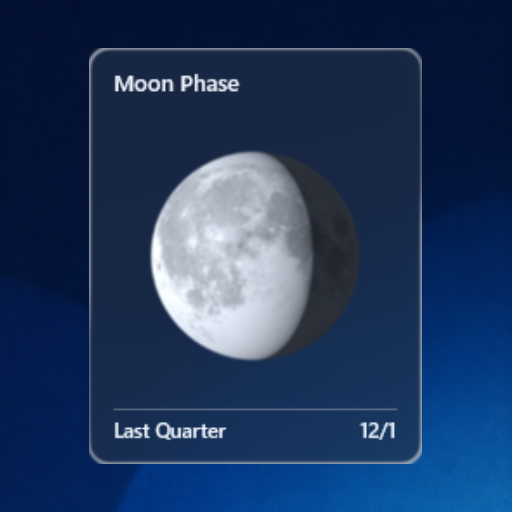
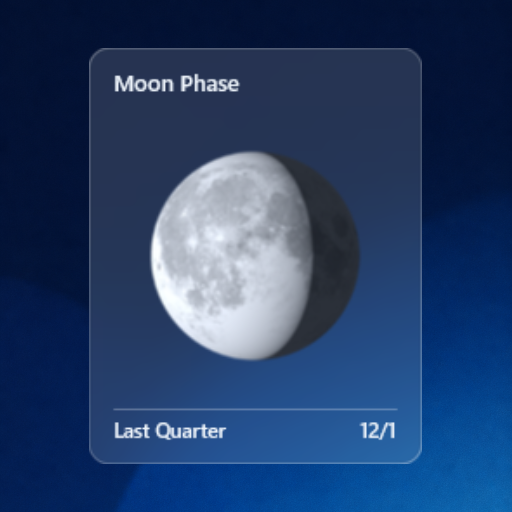
try(widget): 让纯月相开关同步设置和右键（组件验证通过，待实机验证） / Share Moon Only toggle between settings and context menu (widget checks passed, runtime validation pending)
中文：
- 移除组件主题预设，默认跟随全局主题。右键和设置写入同一纯月相开关，开启时透明并隐藏文字，关闭后恢复跟随。
- 使用现有 API v2。旧版已选择的纯月相预设迁移为开关开启。

English:
- Follow the global theme by default. Settings and context menu share the per-instance Moon Only toggle, with a transparent surface and hidden text when enabled.
- Use the existing API v2 and migrate the old Moon Only preset.

验证 / Validation:
- snowwidget quality, pack with 1.0.0 as the previous package, three temporary Lua cases, and localization_contract passed against the restored Release.
- Verified that offscreen pure mode is pixel-identical across Light and Dark Acrylic with the same wallpaper. The card follows each theme.
- Synchronized 39 hash-matched files. The running Release reports version 1.1.0 as valid and active.

限制 / Limitations:
- Desktop placement and interactive switching through the two user entry points are pending hands-on validation.

Changed region(s): [[0.1562, 0.0938, 0.8438, 0.9062]]

diff --git a/developer_assets/workshop_widgets/moon-phase/README.md b/developer_assets/workshop_widgets/moon-phase/README.md
@@ -1,8 +1,12 @@
 # 月相 / Moon Phase
 
-离线桌面组件，默认占用 2×2 格。打开组件设置，在组件预设中选「常规」或「纯月相」。常规模式显示月相标题和下一次关键月相的本地日期，纯月相模式只显示月面。两种模式共用相同的月面比例和中心。
+离线桌面组件，默认占用 2×2 格并跟随全局主题。可在组件设置或组件右键菜单切换「纯月相」。开启后背景和边框完全透明，只显示月面。关闭后恢复全局主题、标题和下次关键月相的本地日期。切换时月面尺寸和位置保持一致。
 
-An offline 2×2 widget. Choose **Card** or **Moon Only** in the component presets. The card shows the local date of the next major phase. Moon Only displays the lunar disk alone. Both presets use the same disk size and position.
+This offline 2×2 widget follows the global theme by default. Toggle **Moon Only** in component settings or the context menu to display just the lunar disk over a transparent surface. Turning it off restores the global appearance, title and local date of the next major phase. The lunar disk keeps the same size and position.
+
+1.1.0 保留原组件 UUID，并将旧实例的纯月相预设迁移为开关。组件使用现有 API v2 外观与存储能力。
+
+Version 1.1.0 keeps the component UUID and migrates the previous Moon Only preset to the toggle. The widget uses the existing API v2 appearance and storage capabilities.
 
 ## 数据和素材 / Data and artwork
 
